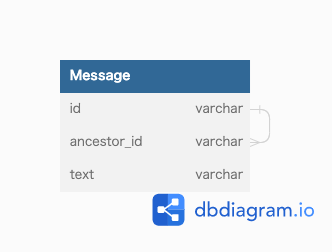
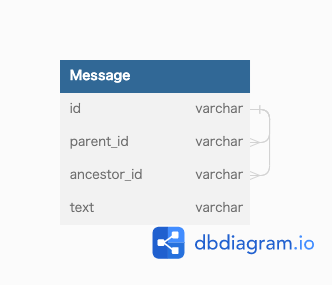
アンチパターン4  回答を修正

diff --git a/DB/anti-pattern-4/回答.md b/DB/anti-pattern-4/回答.md
@@ -5,7 +5,7 @@
 
 ### 課題2
 ![](./work/anti-pattern4.png)
-- スレッドメッセージのような場合だと、親ではなくてスレッドの起点となる祖先のIDを持たせることで解決できそう
+- スレッドメッセージのような場合だと、親に加えてスレッドの起点となる祖先のIDを持たせることで解決できそう
 
 - ツリー構造の表現方法には以下のようなものがある
   - 経路列挙

diff --git a/DB/anti-pattern-4/work/ER.md b/DB/anti-pattern-4/work/ER.md
@@ -1,0 +1,12 @@
+```
+TABLE Message as m {
+  id varchar
+  parent_id varchar
+  ancestor_id varchar
+  text varchar
+}
+
+
+Ref: m.parent_id > m.id
+Ref: m.ancestor_id > m.id
+```
